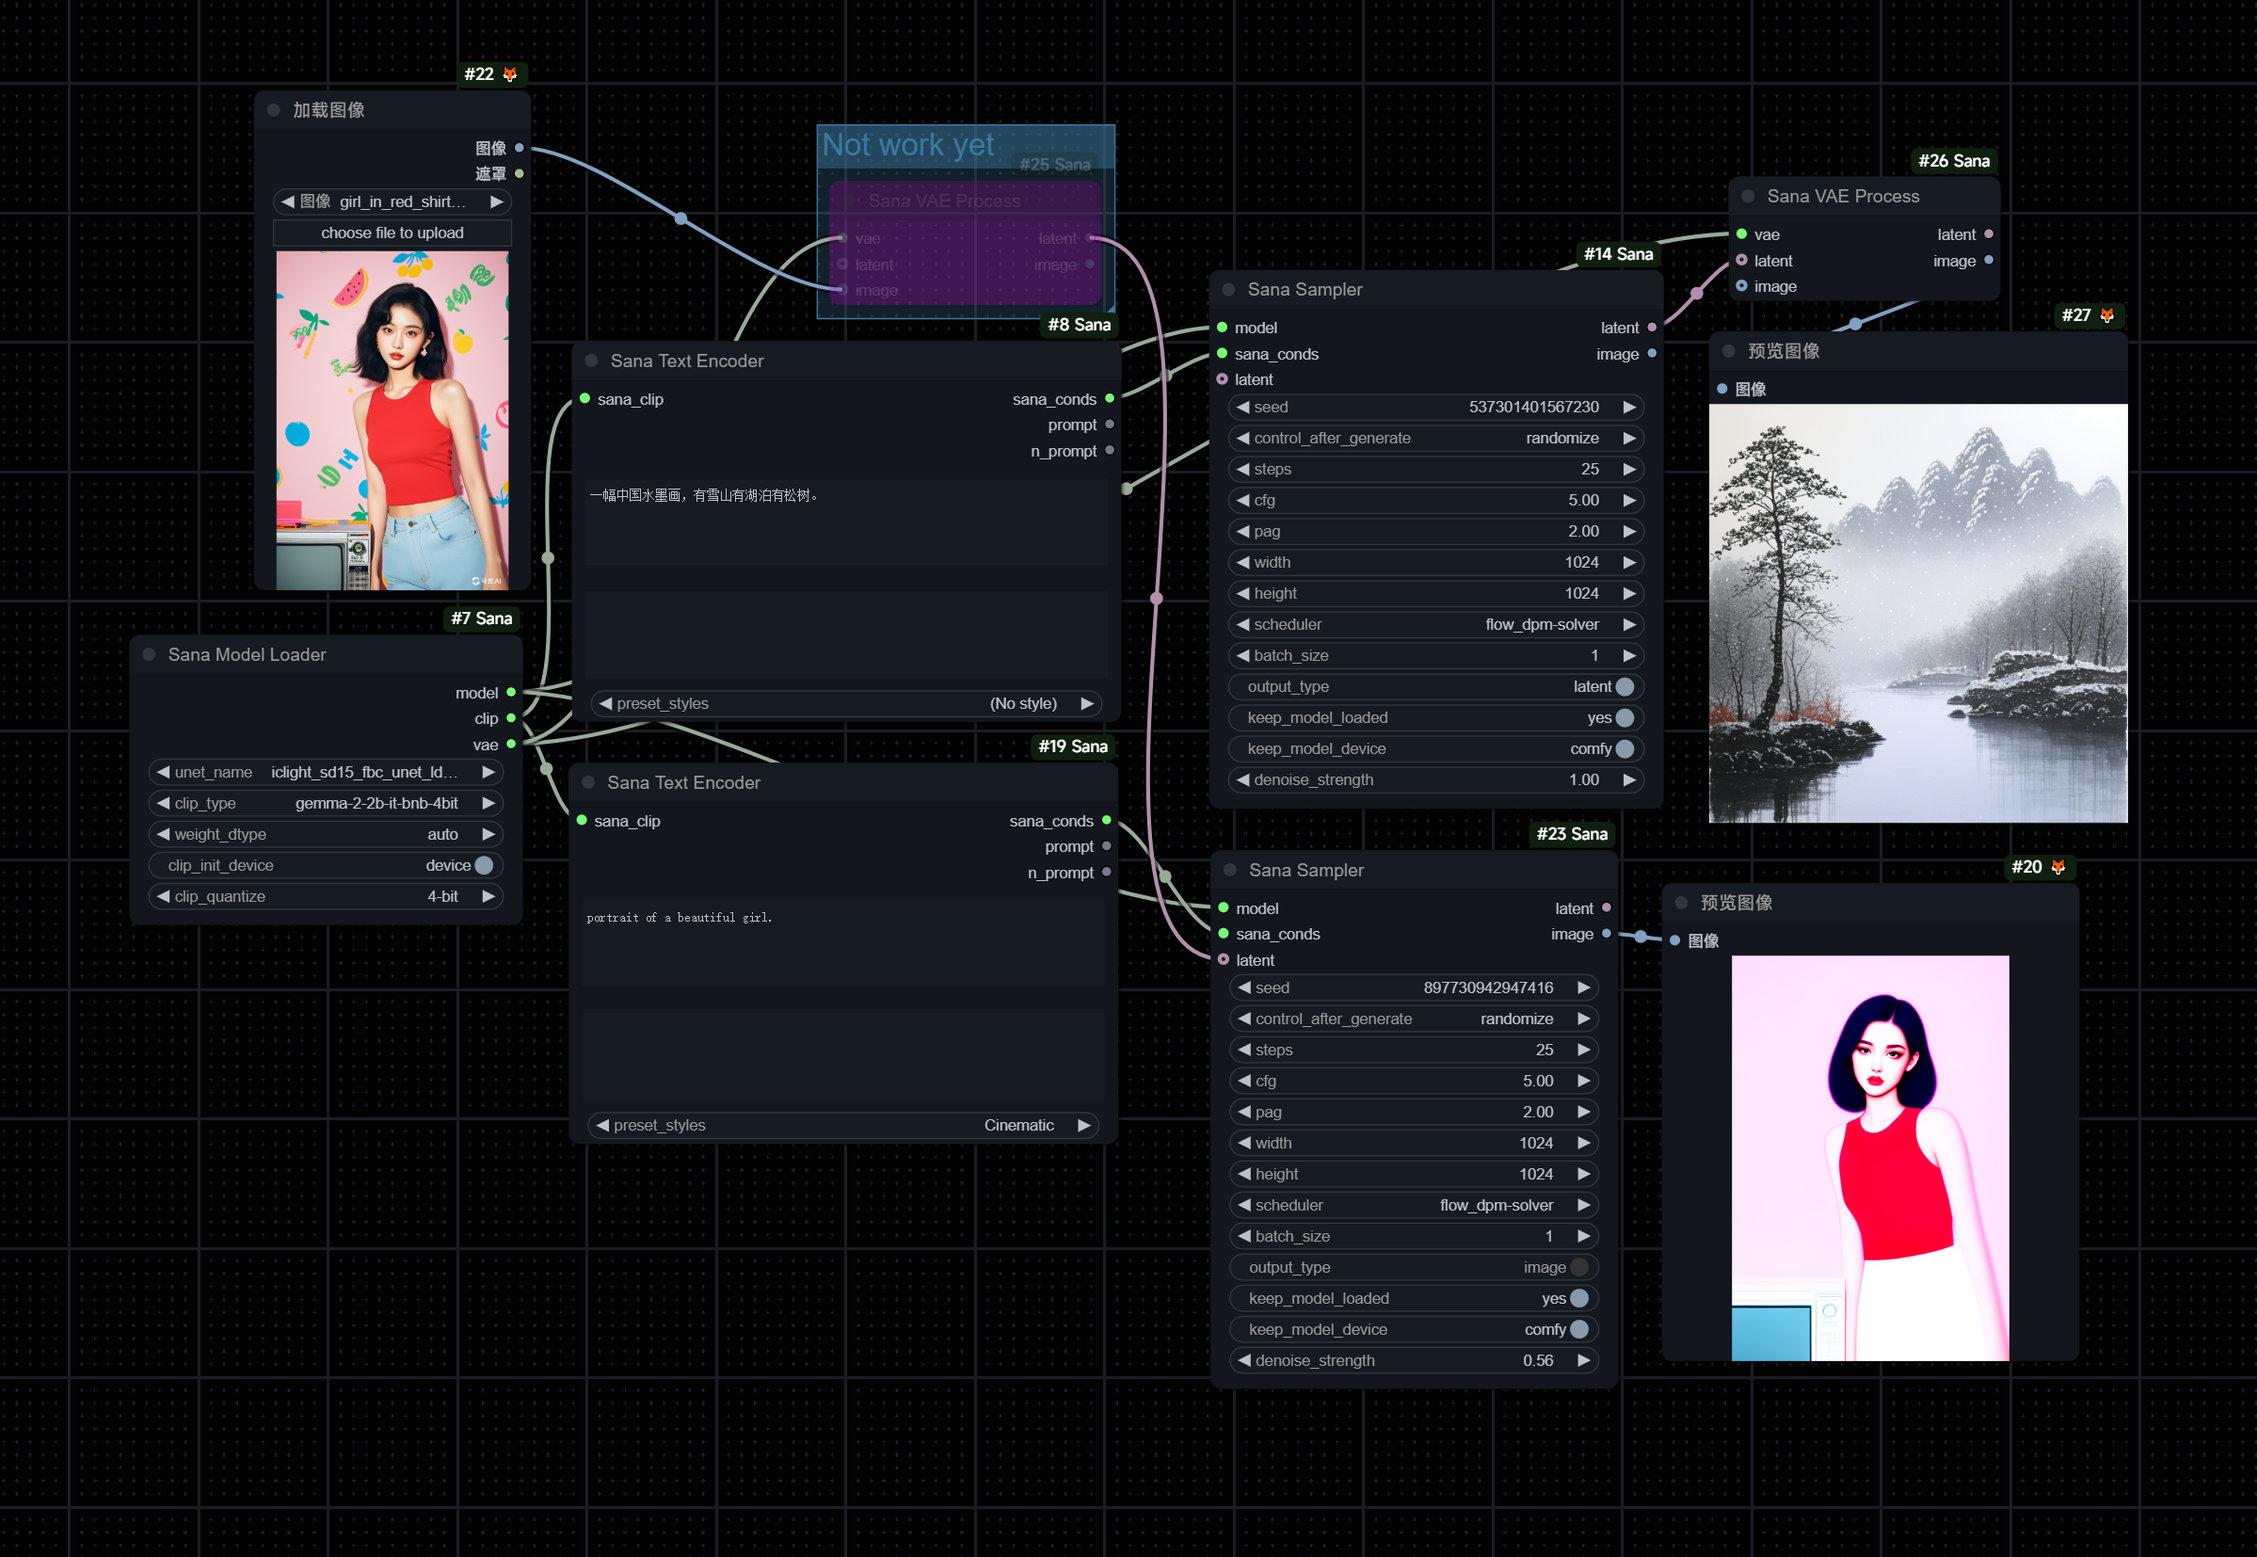
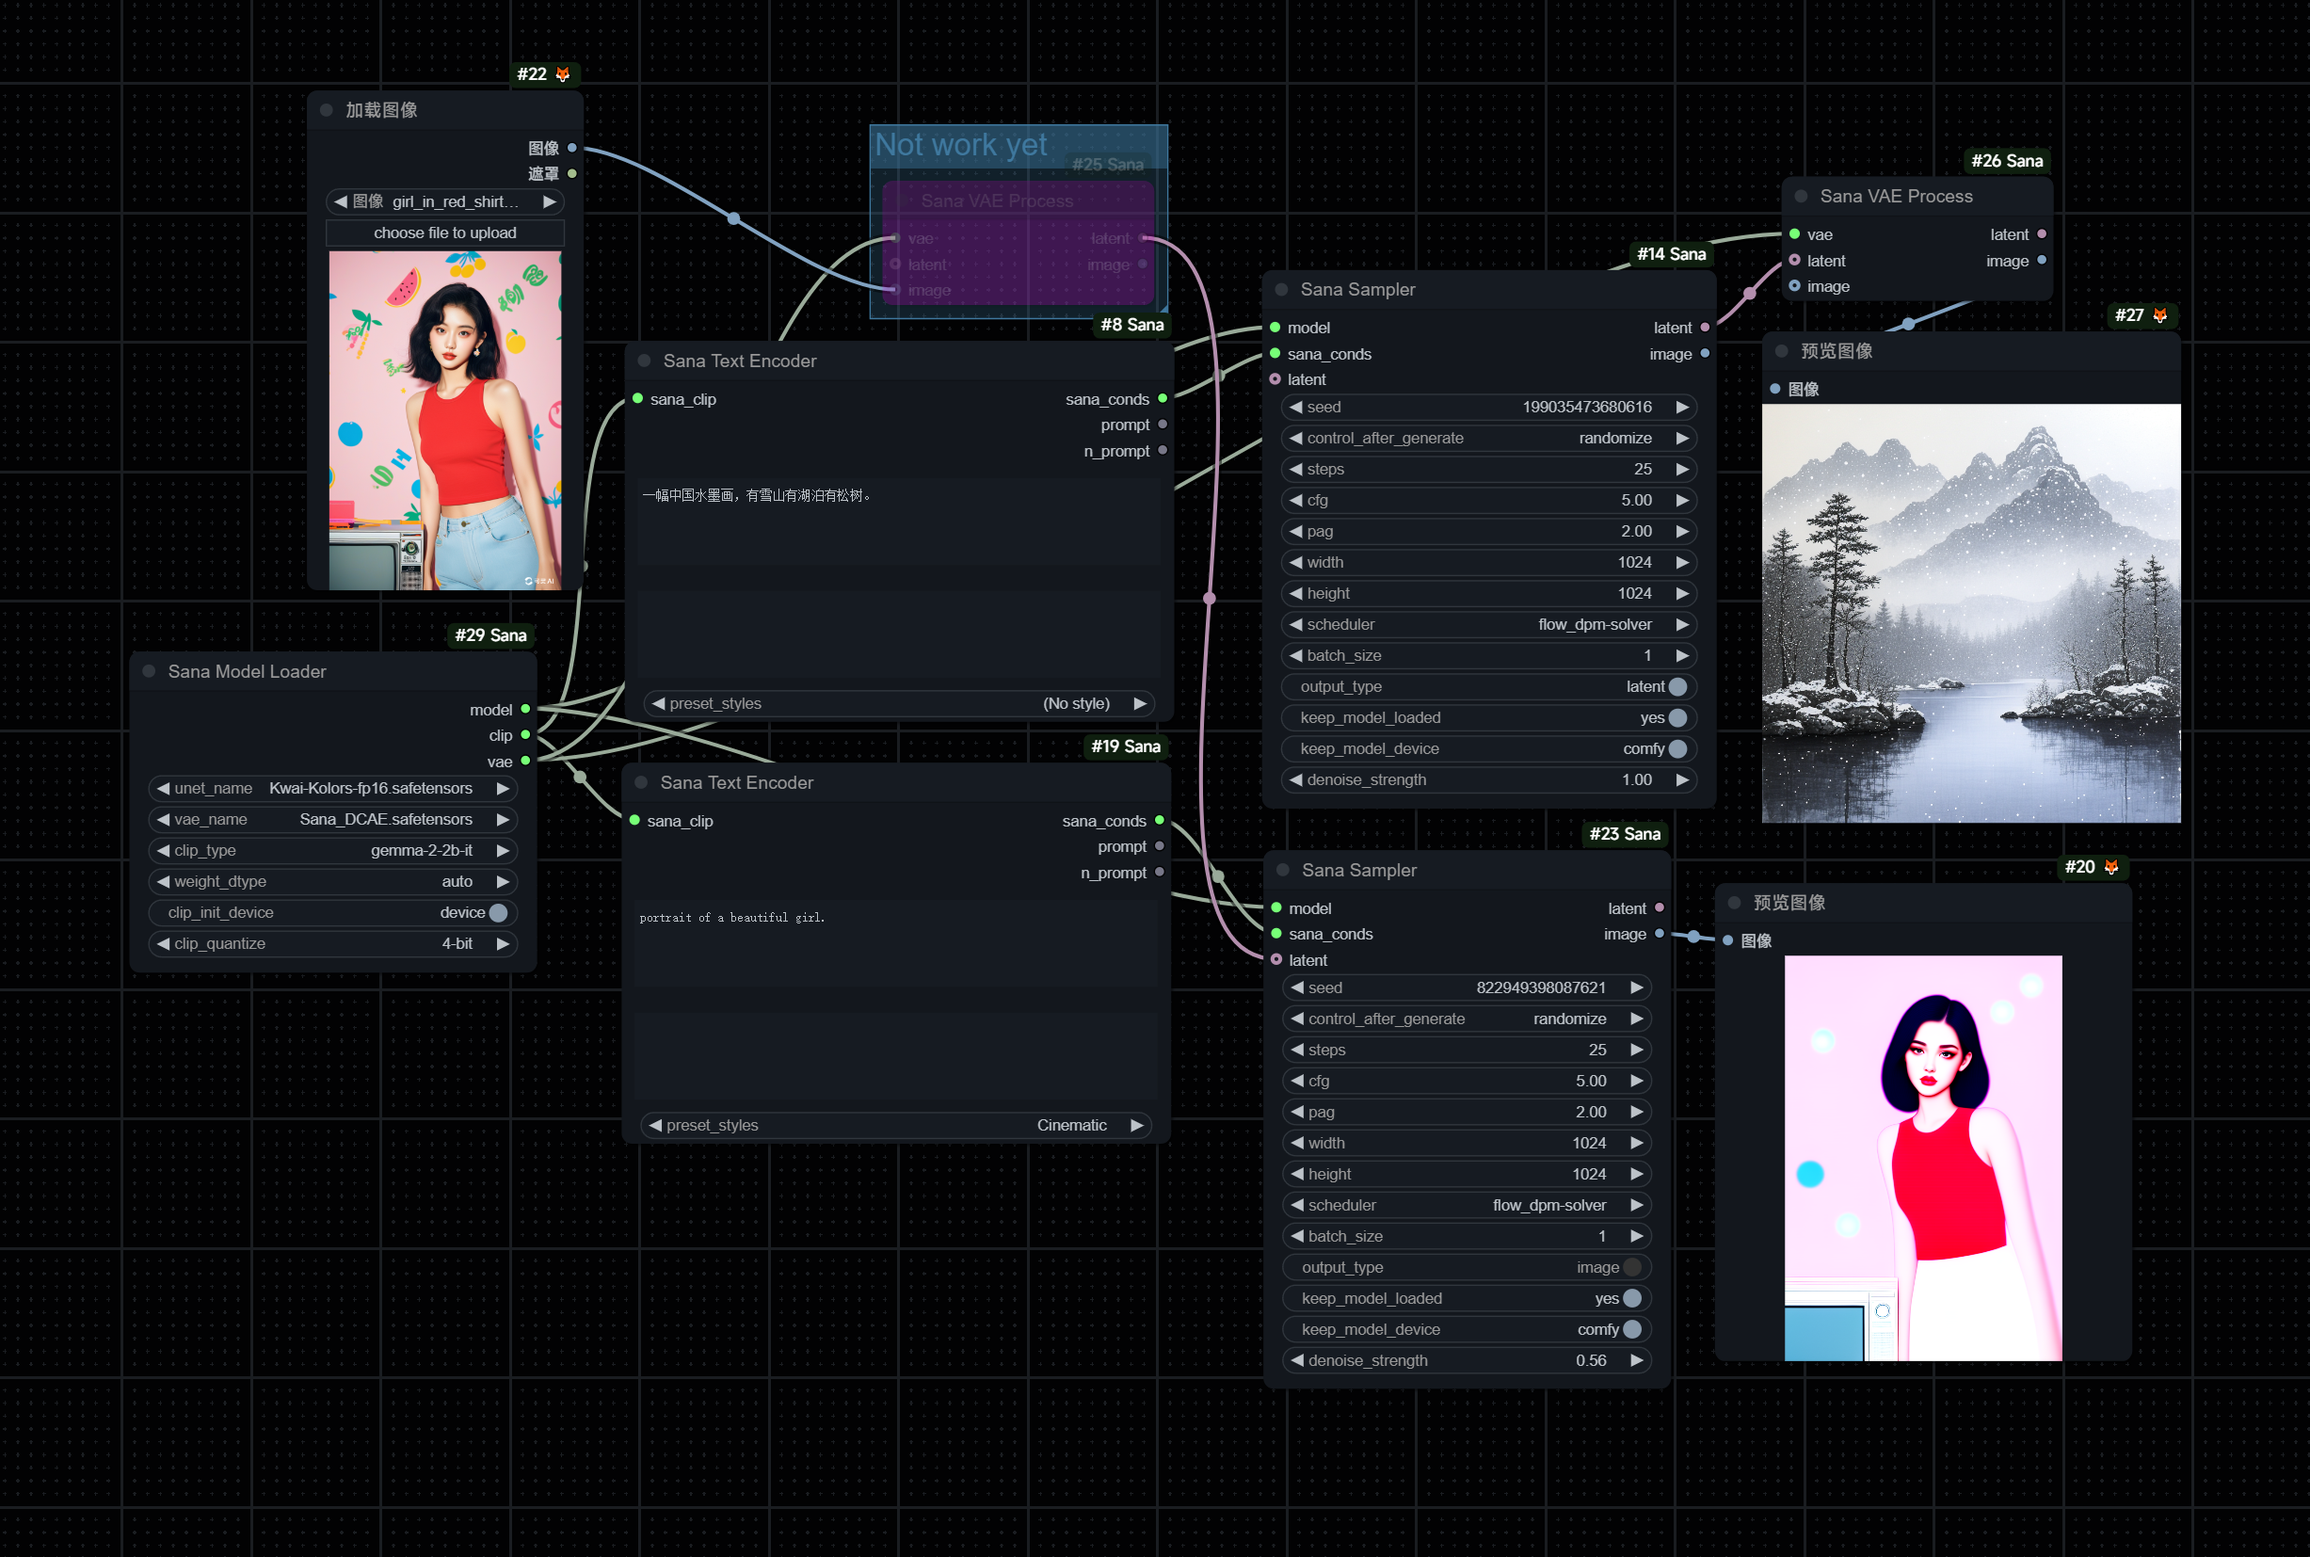
Init vae (DCAE) from single_file.

diff --git a/Image_Generation/Sana/nodes.py b/Image_Generation/Sana/nodes.py
@@ -42,11 +42,15 @@ class UL_SanaVAEProcess:
             from diffusers.image_processor import PixArtImageProcessor
             vae_scale_factor = 2 ** (len(vae.cfg.encoder.width_list) - 1)
             image_processor = PixArtImageProcessor(vae_scale_factor=vae_scale_factor)
-            width, height = latent['width'], latent['height']
+            if 'width' in str(latent.keys()):
+                width, height = latent['width'], latent['height']
+            else:
+                width = None
             latent = latent['samples'].to(device, dtype)
             with torch.inference_mode():
                 result = vae.decode(latent.detach() / vae.cfg.scaling_factor)
-            result = image_processor.resize_and_crop_tensor(result, width, height)
+            if width != None:
+                result = image_processor.resize_and_crop_tensor(result, width, height)
             result = image_processor.postprocess(result.cpu())
             results = []
             for img in result:
@@ -54,7 +58,7 @@ class UL_SanaVAEProcess:
             result = torch.cat(results, dim=0)
         elif image != None: # encode
             import torchvision.transforms as transforms
-            from .diffusion.model.dc_ae.efficientvit.apps.utils.image import DMCrop
+            # from .diffusion.model.dc_ae.efficientvit.apps.utils.image import DMCrop
             image_np = image.squeeze().mul(255).clamp(0, 255).byte().numpy()
             image = Image.fromarray(image_np, mode='RGB')
             
@@ -68,6 +72,7 @@ class UL_SanaVAEProcess:
             with torch.inference_mode():
                 # latent = vae.encode(image.to(device, dtype))
                 latent = vae.encode(x)
+                latent = latent * vae.cfg.scaling_factor
             result = image
         vae.to(vae_offload_device())
         soft_empty_cache(True)
@@ -157,9 +162,11 @@ class UL_SanaSampler:
 class UL_SanaModelLoader:
     @classmethod
     def INPUT_TYPES(s):
+        vaes = folder_paths.get_filename_list("vae")
         return {
             "required": {
                 "unet_name": (folder_paths.get_filename_list("diffusion_models"), ),
+                "vae_name": (vaes, ),
                 "clip_type": (["gemma-2-2b-it", "gemma-2-2b-it-bnb-4bit","Qwen2-1.5B-Instruct","T5-xxl"],{"default":"gemma-2-2b-it"}),
                 "weight_dtype": (["auto","fp16","bf16","fp32"],{"default":"auto"}),
                 "clip_init_device": ("BOOLEAN", {"default": True, "label_on": "device", "label_off": "cpu", "tooltip": "For ram <= 16gb and with cuda device, device is recommended for decrease ram consumption."}),
@@ -175,11 +182,12 @@ class UL_SanaModelLoader:
     OUTPUT_TOOLTIPS = ("Sana Models.", )
     DESCRIPTION = "If 16gb ram, it needs lot of time to init models."
     
-    def loader(self, unet_name, clip_type, weight_dtype, clip_init_device, clip_quantize):
+    def loader(self, unet_name, vae_name, clip_type, weight_dtype, clip_init_device, clip_quantize):
         from .diffusion.model.builder import build_model
         from .pipeline.sana_pipeline import SanaPipeline
         from huggingface_hub import snapshot_download
-        from .diffusion.model.dc_ae.efficientvit.ae_model_zoo import DCAE_HF
+        from .diffusion.model.dc_ae.efficientvit.ae_model_zoo import create_dc_ae_model_cfg#, DCAE_HF
+        from .diffusion.model.dc_ae.efficientvit.models.efficientvit.dc_ae import DCAE
         import pyrallis
         from .diffusion.utils.config import SanaConfig
         
@@ -188,10 +196,11 @@ class UL_SanaModelLoader:
         # unet_path = r'C:\Users\pc\Desktop\New_Folder\SANA\Sana_1600M_1024px.pth'
         # unet_path = r'C:\Users\pc\Desktop\New_Folder\SANA\Sana_1600M_1024px_MultiLing.pth'
         # unet_path = r'C:\Users\pc\Desktop\New_Folder\SANA\Sana_600M_1024px_MultiLing.pth'
-        vae_dir = os.path.join(folder_paths.models_dir, 'vae', 'models--mit-han-lab--dc-ae-f32c32-sana-1.0')
+        
+        # vae_dir = os.path.join(folder_paths.models_dir, 'vae', 'models--mit-han-lab--dc-ae-f32c32-sana-1.0')
         # vae_dir = r'C:\Users\pc\Desktop\New_Folder\SANA\models--mit-han-lab--dc-ae-f32c32-sana-1.0'
-        if not os.path.exists(os.path.join(vae_dir, 'model.safetensors')):
-            snapshot_download('mit-han-lab/dc-ae-f32c32-sana-1.0', local_dir=vae_dir)
+        # if not os.path.exists(os.path.join(vae_dir, 'model.safetensors')):
+        #     snapshot_download('mit-han-lab/dc-ae-f32c32-sana-1.0', local_dir=vae_dir)
         
         if clip_type == 'gemma-2-2b-it':
             text_encoder_dir = os.path.join(folder_paths.models_dir, 'text_encoders', 'models--unsloth--gemma-2-2b-it')
@@ -206,7 +215,16 @@ class UL_SanaModelLoader:
         else:
             raise ValueError('Not implemented!')
         
-        vae = DCAE_HF.from_pretrained(vae_dir).to(dtype).eval()
+        # vae = DCAE_HF.from_pretrained(vae_dir).to(dtype).eval()
+        
+        vae_path = folder_paths.get_full_path_or_raise("vae", vae_name)
+        # vae_path = r'C:\Users\pc\Desktop\New_Folder\SANA\models--mit-han-lab--dc-ae-f32c32-sana-1.0\model.safetensors'
+        cfg = create_dc_ae_model_cfg('dc-ae-f32c32-sana-1.0')
+        vae = DCAE(cfg)
+        state_dict = load_torch_file(vae_path, safe_load=True)
+        vae.load_state_dict(state_dict, strict=False)
+        state_dict = None
+        vae.to(dtype).eval()
         
         if "T5" in clip_type:
             from transformers import T5Tokenizer, T5EncoderModel
@@ -387,18 +405,67 @@ class UL_SanaTextEncode:
         
         return ([caption_embs, null_y, emb_masks], text, n_text, )
         
+class UL_SanaVAELoader:
+    @classmethod
+    def INPUT_TYPES(s):
+        vaes = folder_paths.get_filename_list("vae")
+        return {
+            "required": {
+                "vae_name": (vaes, ),
+                "weight_dtype": (["auto","fp16","bf16","fp32"],{"default":"auto"}),
+            },
+        }
+
+    RETURN_TYPES = ("Sana_VAE",)
+    RETURN_NAMES = ("vae",)
+    FUNCTION = "loader"
+    CATEGORY = "UL Group/Image Generation"
+    TITLE = "Sana VAE Loader(TestOnly)"
+    OUTPUT_TOOLTIPS = ("Sana VAE: DCAE.", )
+    DESCRIPTION = "For test only."
+    
+    def loader(self, vae_name, weight_dtype):
+        # from huggingface_hub import snapshot_download
+        from .diffusion.model.dc_ae.efficientvit.ae_model_zoo import create_dc_ae_model_cfg#, DCAE_HF
+        from .diffusion.model.dc_ae.efficientvit.models.efficientvit.dc_ae import DCAE
+        
+        dtype = get_dtype_by_name(weight_dtype)
+        # vae_dir = os.path.join(folder_paths.models_dir, 'vae', 'models--mit-han-lab--dc-ae-f32c32-sana-1.0')
+        # vae_dir = r'C:\Users\pc\Desktop\New_Folder\SANA\models--mit-han-lab--dc-ae-f32c32-sana-1.0'
+        # if not os.path.exists(os.path.join(vae_dir, 'model.safetensors')):
+        #     snapshot_download('mit-han-lab/dc-ae-f32c32-sana-1.0', local_dir=vae_dir)
+        
+        # vae = DCAE_HF.from_pretrained(vae_dir).to(dtype).eval()
+        
+        vae_path = folder_paths.get_full_path_or_raise("vae", vae_name)
+        # vae_path = r'C:\Users\pc\Desktop\New_Folder\SANA\models--mit-han-lab--dc-ae-f32c32-sana-1.0\model.safetensors'
+        cfg = create_dc_ae_model_cfg('dc-ae-f32c32-sana-1.0')
+        vae = DCAE(cfg)
+        state_dict = load_torch_file(vae_path, safe_load=True)
+        vae.load_state_dict(state_dict, strict=False)
+        state_dict = None
+        vae.to(dtype).eval()
+        
+        out_vae = {
+            'vae': vae,
+            'dtype': dtype,
+        }
+        
+        return (out_vae, )
         
 NODE_CLASS_MAPPINGS = {
     "UL_SanaSampler": UL_SanaSampler,
     "UL_SanaModelLoader": UL_SanaModelLoader,
     "UL_SanaTextEncode": UL_SanaTextEncode,
     "UL_SanaVAEProcess": UL_SanaVAEProcess,
+    "UL_SanaVAELoader": UL_SanaVAELoader,
 }
 NODE_DISPLAY_NAME_MAPPINGS = {
     "Sana Sampler": "UL_SanaSampler",
     "Sana Model Loader": "UL_SanaModelLoader",
     "Sana Text Encoder": "UL_SanaTextEncode",
     "Sana VAE Process": "UL_SanaVAEProcess",
+    "Sana VAE Loader(TestOnly)": "UL_SanaVAELoader",
 }
 
 preset_te_prompt = ['Given a user prompt, generate an "Enhanced prompt" that provides detailed visual descriptions suitable for image generation. Evaluate the level of detail in the user prompt:', '- If the prompt is simple, focus on adding specifics about colors, shapes, sizes, textures, and spatial relationships to create vivid and concrete scenes.', '- If the prompt is already detailed, refine and enhance the existing details slightly without overcomplicating.', 'Here are examples of how to transform or refine prompts:', '- User Prompt: A cat sleeping -> Enhanced: A small, fluffy white cat curled up in a round shape, sleeping peacefully on a warm sunny windowsill, surrounded by pots of blooming red flowers.', '- User Prompt: A busy city street -> Enhanced: A bustling city street scene at dusk, featuring glowing street lamps, a diverse crowd of people in colorful clothing, and a double-decker bus passing by towering glass skyscrapers.', 'Please generate only the enhanced description for the prompt below and avoid including any additional commentary or evaluations:', 'User Prompt: ']

diff --git a/Image_Generation/Sana/pipeline/sana_pipeline.py b/Image_Generation/Sana/pipeline/sana_pipeline.py
@@ -97,8 +97,8 @@ class SanaPipeline(nn.Module):
                 else:
                     weight = torch.tensor(denoise_strength).unsqueeze(-1).unsqueeze(-1)
                     weight = weight.to(device, self.weight_dtype)
-                    z = (latents * self.vae_scaling_factor * weight).to(self.device, self.weight_dtype)
-                    # z = (latents * weight).to(self.device, self.weight_dtype)
+                    # z = (latents * self.vae_scaling_factor * weight).to(self.device, self.weight_dtype)
+                    z = (latents * weight).to(self.device, self.weight_dtype)
                     
                 try:
                     self.model.to(device)

diff --git a/README.md b/README.md
@@ -20,9 +20,9 @@
 ## transformer: download model_file such as `Sana_1600M_512px_MultiLing.pth` from below links into `ComfyUI\models\unet`, only non-diffusers 1204px model(0.6b、1.6b including MultiLing) works in this custom-node for now.
 - https://huggingface.co/collections/Efficient-Large-Model/sana-673efba2a57ed99843f11f9e
 - https://hf-mirror.com/collections/Efficient-Large-Model/sana-673efba2a57ed99843f11f9e China mainland users.
-## vae: autodownload or manual download or git from below links into `ComfyUI\models\vae`, rename folder_name to `models--mit-han-lab--dc-ae-f32c32-sana-1.0`.
-- https://huggingface.co/mit-han-lab/dc-ae-f32c32-sana-1.0
-- https://hf-mirror.com/mit-han-lab/dc-ae-f32c32-sana-1.0 China mainland users.
+## vae: download from below links into `ComfyUI\models\vae`, rename model_name to any.
+- https://huggingface.co/mit-han-lab/dc-ae-f32c32-sana-1.0/blob/main/model.safetensors
+- https://hf-mirror.com/mit-han-lab/dc-ae-f32c32-sana-1.0/blob/main/model.safetensors China mainland users.
 ## text_encoder: autodownload or manual download or git from below links into `ComfyUI\models\text_encoders`, rename folder_name to `models--unsloth--gemma-2-2b-it`.
 - https://huggingface.co/unsloth/gemma-2-2b-it
 - https://hf-mirror.com/unsloth/gemma-2-2b-it China mainland users.
